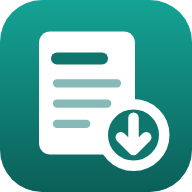
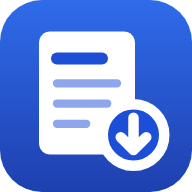
RunDown v1.0.1: document tabs, blue color, wider page, scrolling tables
- Open documents get closable tabs after Documents (+ for a new one, middle click closes), restored on reload; each tab keeps its undo history.
- Blue replaces teal: default accent, icon (SVGs and PNGs re-rendered), theme color, app switcher.
- Wider page widths (normal 980px, wide 1280px, narrow 720px); a table wider than the page scrolls sideways inside it.
- Harness: tab and wide-table checks.

diff --git a/index.html b/index.html
@@ -11,7 +11,7 @@
 <link rel="icon" href="icons/icon.svg" type="image/svg+xml">
 <link rel="icon" href="icons/icon-192.png" type="image/png" sizes="192x192">
 <link rel="apple-touch-icon" href="icons/apple-touch-icon.png">
-<meta name="theme-color" content="#0F766E" media="(prefers-color-scheme: light)">
+<meta name="theme-color" content="#1D4ED8" media="(prefers-color-scheme: light)">
 <meta name="theme-color" content="#161C25" media="(prefers-color-scheme: dark)">
 <meta name="apple-mobile-web-app-title" content="RunDown">
 <meta name="description" content="A Markdown word processor that renders as you write. Offline, private, with math, tables, tasks and export to HTML or PDF.">
@@ -20,7 +20,7 @@
     color-scheme:light;
     --bg:#EEF1F5; --surface:#FFFFFF; --surface-2:#F6F8FB;
     --ink:#131A24; --muted:#616B7A; --line:#E2E7EE; --line-2:#CBD3DE;
-    --accent:#0F766E; --accent-hover:#0B5F59; --accent-soft:#E1F3F1;
+    --accent:#1D4ED8; --accent-hover:#1E40AF; --accent-soft:#E6EEFD;
     --good:#0F9D74; --good-soft:#E4F5EF;
     --bad:#DC4B54; --bad-soft:#FBEAEB;
     --warn:#A76A00; --warn-soft:#FBF1DC;
@@ -31,8 +31,8 @@
     --shadow:0 1px 2px rgba(19,26,36,.06), 0 8px 24px rgba(19,26,36,.06);
     --shadow-knob:0 1px 3px rgba(0,0,0,.3);
     --overlay:rgba(10,14,20,.55);
-    --fs:1; --lh:1; --pw:820px;              /* text size, line spacing and page width (Settings) */
-    --app-qq:#4338CA; --app-ib:#1E7A4C; --app-cc:#C2410C; --app-rd:#0F766E;  /* each study app's own color, for the app switcher */
+    --fs:1; --lh:1; --pw:980px;              /* text size, line spacing and page width (Settings) */
+    --app-qq:#4338CA; --app-ib:#1E7A4C; --app-cc:#C2410C; --app-rd:#1D4ED8;  /* each study app's own color, for the app switcher */
     --font-body:system-ui,-apple-system,"Segoe UI",Roboto,Helvetica,Arial,sans-serif;
     --font-mono:ui-monospace,"Cascadia Mono",Consolas,"SF Mono",Menlo,monospace;
     --font-doc:var(--font-body);
@@ -42,14 +42,14 @@
       color-scheme:dark;
         --bg:#0E1218; --surface:#161C25; --surface-2:#1C2531;
         --ink:#E8ECF2; --muted:#96A0AD; --line:#263140; --line-2:#344257;
-        --accent:#2DD4BF; --accent-hover:#5EEAD4; --accent-soft:#0F2A28;
+        --accent:#6EA8FE; --accent-hover:#8DBBFF; --accent-soft:#16243A;
         --good:#34C79A; --good-soft:#12271F;
         --bad:#F0757C; --bad-soft:#2A1618;
         --warn:#E7B04A; --warn-soft:#2B2210;
-        --on-accent:#062221;
+        --on-accent:#0B1220;
         --knob:#F4F6FA;
         --code-bg:#1C2531; --mark:#5B4A12; --qbar:#344257; --find:#5A3B12; --find-cur:#B7791F;
-        --app-qq:#8B87FF; --app-ib:#6FD3A0; --app-cc:#FB923C; --app-rd:#2DD4BF;
+        --app-qq:#8B87FF; --app-ib:#6FD3A0; --app-cc:#FB923C; --app-rd:#6EA8FE;
         --shadow:0 1px 2px rgba(0,0,0,.4), 0 8px 24px rgba(0,0,0,.35);
     }
   }
@@ -57,14 +57,14 @@
     color-scheme:dark;
       --bg:#0E1218; --surface:#161C25; --surface-2:#1C2531;
       --ink:#E8ECF2; --muted:#96A0AD; --line:#263140; --line-2:#344257;
-      --accent:#2DD4BF; --accent-hover:#5EEAD4; --accent-soft:#0F2A28;
+      --accent:#6EA8FE; --accent-hover:#8DBBFF; --accent-soft:#16243A;
       --good:#34C79A; --good-soft:#12271F;
       --bad:#F0757C; --bad-soft:#2A1618;
       --warn:#E7B04A; --warn-soft:#2B2210;
-      --on-accent:#062221;
+      --on-accent:#0B1220;
       --knob:#F4F6FA;
       --code-bg:#1C2531; --mark:#5B4A12; --qbar:#344257; --find:#5A3B12; --find-cur:#B7791F;
-      --app-qq:#8B87FF; --app-ib:#6FD3A0; --app-cc:#FB923C; --app-rd:#2DD4BF;
+      --app-qq:#8B87FF; --app-ib:#6FD3A0; --app-cc:#FB923C; --app-rd:#6EA8FE;
       --shadow:0 1px 2px rgba(0,0,0,.4), 0 8px 24px rgba(0,0,0,.35);
   }
   /* fonts (Settings > Text). Atkinson Hyperlegible: Copyright 2020 Braille Institute of America, Inc.,
@@ -74,7 +74,7 @@
   :root[data-font="serif"]{--font-doc:"Iowan Old Style","Palatino Linotype",Palatino,"Book Antiqua",Georgia,serif}
   :root[data-font="atkinson"]{--font-body:"Atkinson Hyperlegible",system-ui,-apple-system,"Segoe UI",Roboto,Helvetica,Arial,sans-serif; --font-doc:var(--font-body)}
   :root[data-font="mono"]{--font-doc:var(--font-mono)}
-  :root[data-width="narrow"]{--pw:680px} :root[data-width="wide"]{--pw:1040px} :root[data-width="full"]{--pw:100%}
+  :root[data-width="narrow"]{--pw:720px} :root[data-width="wide"]{--pw:1280px} :root[data-width="full"]{--pw:100%}
   @media (prefers-reduced-motion: reduce){ *, *::before, *::after{transition:none !important; animation:none !important; scroll-behavior:auto !important} }
   :root[data-motion="reduce"] *, :root[data-motion="reduce"] *::before, :root[data-motion="reduce"] *::after{transition:none !important; animation:none !important; scroll-behavior:auto !important}
   *{box-sizing:border-box}
@@ -127,6 +127,18 @@
   .tab[aria-current="page"]{color:var(--accent); border-bottom-color:var(--accent)}
   .tab.icon{display:inline-grid; place-items:center; padding:12px 10px 10px}
   .tab.icon svg{width:20px; height:20px}
+  /* Open documents: a closable tab each, after Documents */
+  .dtabs{display:flex; align-items:center; gap:4px; margin-left:6px}
+  .dtabs:empty{display:none}
+  .dtab{display:inline-flex; align-items:center; max-width:200px; border:1px solid var(--line); border-radius:8px; background:var(--surface-2); flex-shrink:0}
+  .dtab.cur{background:var(--accent-soft); border-color:color-mix(in srgb, var(--accent) 40%, transparent)}
+  .dtab-name{background:none; border:none; color:var(--muted); font-size:calc(13.5px * var(--fs)); font-weight:600; padding:6px 2px 6px 10px; min-width:0; overflow:hidden; text-overflow:ellipsis; white-space:nowrap}
+  .dtab-name:hover, .dtab.cur .dtab-name{color:var(--ink)}
+  .dtab.cur .dtab-name{color:var(--accent)}
+  .dtab-x{background:none; border:none; color:var(--muted); font-size:calc(16px * var(--fs)); line-height:1; padding:4px 7px 5px; margin-right:2px; border-radius:6px}
+  .dtab-x:hover{color:var(--ink); background:color-mix(in srgb, var(--ink) 10%, transparent)}
+  .dtab-new{background:none; border:1px dashed var(--line); color:var(--muted); font-size:calc(16px * var(--fs)); line-height:1; width:30px; height:30px; border-radius:8px; margin-left:4px; flex-shrink:0}
+  .dtab-new:hover{color:var(--accent); border-color:var(--accent)}
   @media (max-width:560px){ .appbar-in{gap:0} .brand{padding:12px 0 0} .appsw, .beta{margin-top:12px} .tabs{flex-basis:100%} .tab{padding:10px 10px 11px} }
 
   /* ---------- App switcher: the down arrow before the logotype opens a menu of the study apps, with Home last ---------- */
@@ -240,7 +252,8 @@
   .ed .mprev{display:block; text-align:center; overflow-x:auto; padding:.4em; margin:.2em 0 .4em; border:1px dashed var(--line-2); border-radius:8px; user-select:none}
   .ed .mprev math{font-size:1.1em}
   .ed .merr{color:var(--bad); font-family:var(--font-mono); font-size:.85em}
-  .ed .blk.tbl.on{display:table; border-collapse:collapse; margin:.45em 0; max-width:100%}
+  /* a block that scrolls sideways, around the anonymous table its rows make, so a wide table stays on the page */
+  .ed .blk.tbl.on{display:block; overflow-x:auto; border-collapse:collapse; margin:.45em 0; max-width:100%}
   .ed .blk.tbl.on > .ln{display:table-row}
   .ed .blk.tbl.on > .ln.x{display:none}
   .ed .td{display:table-cell; border:1px solid var(--line-2); padding:5px 12px; vertical-align:top; min-width:3em; white-space:pre-wrap}
@@ -338,7 +351,7 @@
 </style>
 <script>
 /* Appearance, applied before the first paint. Copied from QuizQrusher's QQ-SHARED:appearance block (via CwikCard), with RunDown's
-   own settings key, teal as the default accent, a monospace font and the page width. */
+   own settings key, blue as the default accent, a monospace font and the page width. */
 (function(){
   "use strict";
   // Accent presets: [accent, hover, soft, text-on-accent] for light and dark themes (the same as QuizQrusher's)
@@ -359,7 +372,7 @@
     var theme = s.theme === "light" || s.theme === "dark" ? s.theme : "system";
     if (theme === "system") root.removeAttribute("data-theme"); else root.setAttribute("data-theme", theme);
     var dark = theme === "dark" || (theme === "system" && !!(mq && mq.matches));
-    var a = (ACCENTS[s.accent] || ACCENTS.teal)[dark ? "dark" : "light"];
+    var a = (ACCENTS[s.accent] || ACCENTS.blue)[dark ? "dark" : "light"];
     st.setProperty("--accent", a[0]); st.setProperty("--accent-hover", a[1]); st.setProperty("--accent-soft", a[2]); st.setProperty("--on-accent", a[3]);
     st.setProperty("--fs", String(+s.textScale || 1));
     st.setProperty("--lh", String(+s.lineSpacing || 1));
@@ -386,8 +399,8 @@
           <a class="appsw-item qq" role="menuitem" href="../Quiz_Qrusher/"><svg viewBox="0 0 512 512" aria-hidden="true"><defs><linearGradient id="swqq" x1="0" y1="0" x2="0" y2="1"><stop offset="0" stop-color="#5145E6"/><stop offset="1" stop-color="#3A31B8"/></linearGradient></defs><rect width="512" height="512" rx="112" fill="url(#swqq)"/><g fill="none" stroke="#FFFFFF" stroke-linecap="round" stroke-linejoin="round"><circle cx="246" cy="240" r="153" stroke-width="50"/><path d="M368 336L430 378" stroke-width="54"/><path d="M190 244L232 288L304 200" stroke-width="34"/></g></svg><span>Quiz<b>Qrusher</b></span></a>
           <a class="appsw-item ib" role="menuitem" href="../Class_Base/"><svg viewBox="0 0 512 512" aria-hidden="true"><defs><linearGradient id="swib" x1="0" y1="0" x2="0" y2="1"><stop offset="0" stop-color="#24935C"/><stop offset="1" stop-color="#16603B"/></linearGradient></defs><rect width="512" height="512" rx="112" fill="url(#swib)"/><rect x="132" y="92" width="268" height="190" rx="24" fill="#FFFFFF" fill-opacity=".42"/><rect x="92" y="130" width="282" height="206" rx="26" fill="#FFFFFF"/><path d="M136 186H290M136 230H252M136 274H214" fill="none" stroke="#1B7047" stroke-width="22" stroke-linecap="round"/><circle cx="338" cy="326" r="70" fill="#1B7047" stroke="#FFFFFF" stroke-width="30"/><path d="M392 380L432 420" fill="none" stroke="#FFFFFF" stroke-width="42" stroke-linecap="round"/></svg><span>Info<b>Base</b></span></a>
           <a class="appsw-item cc" role="menuitem" href="../CwikCard/"><svg viewBox="0 0 512 512" aria-hidden="true"><defs><linearGradient id="swcc" x1="0" y1="0" x2="0" y2="1"><stop offset="0" stop-color="#F26B1D"/><stop offset="1" stop-color="#B83A0A"/></linearGradient></defs><rect width="512" height="512" rx="112" fill="url(#swcc)"/><rect x="168" y="92" width="232" height="300" rx="30" fill="#FFFFFF" fill-opacity=".42" transform="rotate(12 284 242)"/><g transform="rotate(-6 236 268)"><rect x="120" y="118" width="232" height="300" rx="30" fill="#FFFFFF"/><path d="M262 166L192 290H240L218 372L290 244H242Z" fill="#C2410C"/></g></svg><span>Cwik<b>Card</b></span></a>
-          <a class="appsw-item rd" role="menuitem" href="../RunDown/" aria-current="page"><svg viewBox="0 0 512 512" aria-hidden="true"><defs><linearGradient id="swrd" x1="0" y1="0" x2="0" y2="1"><stop offset="0" stop-color="#14A394"/><stop offset="1" stop-color="#0B5F59"/></linearGradient></defs><rect width="512" height="512" rx="112" fill="url(#swrd)"/><rect x="104" y="84" width="256" height="328" rx="30" fill="#FFFFFF"/><path d="M152 156H272" stroke="#0F766E" stroke-width="32" stroke-linecap="round"/><path d="M152 222H312M152 276H286M152 330H230" stroke="#0F766E" stroke-opacity=".5" stroke-width="22" stroke-linecap="round"/><circle cx="356" cy="360" r="82" fill="#0F766E" stroke="#FFFFFF" stroke-width="28"/><path d="M356 314V398M322 366L356 400L390 366" fill="none" stroke="#FFFFFF" stroke-width="28" stroke-linecap="round" stroke-linejoin="round"/></svg><span>Run<b>Down</b></span></a>
-          <a class="appsw-home" role="menuitem" href="../"><svg viewBox="0 0 64 64" aria-hidden="true"><rect width="64" height="64" rx="14" fill="#131A24"/><rect x="14" y="14" width="16" height="16" rx="4" fill="#5145E6"/><rect x="34" y="14" width="16" height="16" rx="4" fill="#24935C"/><rect x="14" y="34" width="16" height="16" rx="4" fill="#E8611A"/><rect x="34" y="34" width="16" height="16" rx="4" fill="#14A394"/></svg><span>Home<small>All study apps</small></span></a>
+          <a class="appsw-item rd" role="menuitem" href="../RunDown/" aria-current="page"><svg viewBox="0 0 512 512" aria-hidden="true"><defs><linearGradient id="swrd" x1="0" y1="0" x2="0" y2="1"><stop offset="0" stop-color="#2F6BEA"/><stop offset="1" stop-color="#1E40AF"/></linearGradient></defs><rect width="512" height="512" rx="112" fill="url(#swrd)"/><rect x="104" y="84" width="256" height="328" rx="30" fill="#FFFFFF"/><path d="M152 156H272" stroke="#1D4ED8" stroke-width="32" stroke-linecap="round"/><path d="M152 222H312M152 276H286M152 330H230" stroke="#1D4ED8" stroke-opacity=".5" stroke-width="22" stroke-linecap="round"/><circle cx="356" cy="360" r="82" fill="#1D4ED8" stroke="#FFFFFF" stroke-width="28"/><path d="M356 314V398M322 366L356 400L390 366" fill="none" stroke="#FFFFFF" stroke-width="28" stroke-linecap="round" stroke-linejoin="round"/></svg><span>Run<b>Down</b></span></a>
+          <a class="appsw-home" role="menuitem" href="../"><svg viewBox="0 0 64 64" aria-hidden="true"><rect width="64" height="64" rx="14" fill="#131A24"/><rect x="14" y="14" width="16" height="16" rx="4" fill="#5145E6"/><rect x="34" y="14" width="16" height="16" rx="4" fill="#24935C"/><rect x="14" y="34" width="16" height="16" rx="4" fill="#E8611A"/><rect x="34" y="34" width="16" height="16" rx="4" fill="#2F6BEA"/></svg><span>Home<small>All study apps</small></span></a>
         </div>
       </div>
       <button class="brand" type="button" data-tab="write">Run<span>Down</span></button>
@@ -396,6 +409,8 @@
     <nav class="tabs" aria-label="Main">
       <button class="tab" type="button" data-tab="write" aria-current="page">Write</button>
       <button class="tab" type="button" data-tab="docs">Documents</button>
+      <span class="dtabs" id="docTabs" role="group" aria-label="Open documents"></span>
+      <button class="dtab-new" id="tabNewBtn" type="button" aria-label="New document" title="New document">+</button>
       <span class="push" aria-hidden="true"></span>
       <button class="tab" type="button" data-tab="help">Help</button>
       <button class="tab icon" type="button" data-tab="settings" aria-label="Settings" title="Settings">
@@ -549,6 +564,7 @@
       <ul>
         <li>RunDown saves as you type. The note next to the name says when it last saved.</li>
         <li>The name at the top is optional: without one, the first line of the document names it.</li>
+        <li><b>Tabs.</b> Each document you open gets a tab next to Documents, so you can switch between several. <b>+</b> starts a new one, and &times; (or a middle click) closes a tab without deleting anything: the document stays on the Documents page. Open tabs come back when you return, and each keeps its undo history while you switch.</li>
         <li><b>Documents</b> lists everything you've written, newest first, with search once you have a few. Each one can be downloaded, duplicated or deleted there.</li>
         <li>Import <code>.md</code> or <code>.txt</code> files on the Documents page, or drop one onto the page while you write.</li>
         <li>Settings &rsaquo; Data &rsaquo; <b>Export all</b> saves every document (and its pictures) in one backup file. Import it on another device or browser to bring everything across.</li>
@@ -573,6 +589,8 @@
 
       <h2 id="help-whatsnew">What's new</h2>
       <dl class="versions">
+        <dt>v1.0.1 &middot; October 2026</dt>
+        <dd>Tabs: open several documents at once and switch between them next to Documents. RunDown is blue now: a blue icon, blue in the study apps menu, and blue as the default accent color (pick another, teal included, in Settings &gt; Appearance). The page is wider, and a table wider than the page scrolls sideways instead of running off it.</dd>
         <dt>v1.0 &middot; October 2026</dt>
         <dd>The first version: a Markdown word processor with live preview (plain while you edit inside a piece of Markdown, rendered the moment it closes), Source and Read views, headings, emphasis, highlight, links, pictures, lists, checklists, quotes, code blocks, tables and LaTeX math, a formatting toolbar and shortcuts, find and replace, an outline, documents saved in the browser, import, export to Markdown, HTML, PDF and formatted text, Settings, and an installable app that works offline.</dd>
       </dl>
@@ -643,7 +661,7 @@
 (function(){
   "use strict";
 
-  var APP_VERSION = "1.0.0";
+  var APP_VERSION = "1.0.1";
   var NS = "runDown:";   // every GitHub Pages project of this user shares one origin, so namespace every key
   var el = function(id){ return document.getElementById(id); };
   var IS_MAC = /Mac|iPhone|iPad|iPod/.test(navigator.platform || navigator.userAgent || "");
@@ -651,7 +669,7 @@
 
   /* ---------- Settings: localStorage runDown:settings, missing keys fall back to the defaults ---------- */
   var SETTINGS_DEFAULTS = {
-    theme: "system", accent: "teal", reduceMotion: false,                                   // Appearance
+    theme: "system", accent: "blue", reduceMotion: false,                                   // Appearance
     textScale: 1, lineSpacing: 1, font: "system", pageWidth: "normal", showCounts: true,     // Text
     editStyle: "plain", spellcheck: true, smartLists: true, autoClose: true, math: true, pasteHtml: true   // Editing
   };
@@ -2279,6 +2297,7 @@
     d.caret = sel.f;
     if (!d.name) document.title = docTitle(d) + " - RunDown";
     el("docName").placeholder = autoTitle(d.text) || "Untitled";
+    renderTabs();
     return putRecord("docs", d).then(function(){ if (!saveTimer && el("saveState").textContent !== "Not saved") setSaveState("saved"); });
   }
   function docTitle(d){ return (d.name && d.name.trim()) || autoTitle(d.text) || "Untitled"; }
@@ -2293,12 +2312,15 @@
     return d;
   }
   function openDoc(id, focus){
-    if (curId && DOCS[curId] && curId !== id) flushSave();
+    if (curId && DOCS[curId] && curId !== id){ flushSave(); UNDO[curId] = { u: undoStack, r: redoStack, text: src }; }
     var d = DOCS[id]; if (!d) return;
     curId = id;
     try { localStorage.setItem(NS + "last", id); } catch (e){}
     setSrc(d.text || "");
-    undoStack = []; redoStack = [];
+    var keep = UNDO[id] && UNDO[id].text === src ? UNDO[id] : null;   // a tab keeps its undo history while its text is unchanged
+    undoStack = keep ? keep.u : []; redoStack = keep ? keep.r : [];
+    delete UNDO[id];
+    addTab(id);
     var c = Math.max(0, Math.min(d.caret || 0, src.length)); sel = { a: c, f: c };
     el("docName").value = d.name || ""; el("docName").placeholder = autoTitle(d.text) || "Untitled";
     document.title = docTitle(d) + " - RunDown";
@@ -2310,6 +2332,49 @@
     window.scrollTo(0, 0);
     if (focus && viewMode !== "read"){ ed.focus({ preventScroll: true }); edFocused = true; render(); ensureCaretVisible(); }
   }
+  /* ---------- Open documents as tabs: after Documents in the app bar, kept in localStorage runDown:tabs ---------- */
+  var TABS = [], UNDO = {};   // UNDO: doc id -> { u, r, text }, the undo history of a tab that isn't showing
+  function saveTabs(){ try { localStorage.setItem(NS + "tabs", JSON.stringify(TABS)); } catch (e){} }
+  function loadTabs(){
+    var t = []; try { t = JSON.parse(localStorage.getItem(NS + "tabs")) || []; } catch (e){}
+    TABS = (Array.isArray(t) ? t : []).filter(function(id, i, a){ return DOCS[id] && a.indexOf(id) === i; });
+  }
+  function addTab(id){
+    if (TABS.indexOf(id) < 0){ var at = TABS.indexOf(curId); if (at < 0 || id === curId) TABS.push(id); else TABS.splice(at + 1, 0, id); saveTabs(); }
+    renderTabs();
+  }
+  function closeTab(id){
+    var at = TABS.indexOf(id); if (at < 0) return;
+    if (id === curId) flushSave();
+    TABS.splice(at, 1); delete UNDO[id]; saveTabs();
+    if (id === curId){
+      var next = TABS[Math.min(at, TABS.length - 1)];
+      if (next) openDoc(next, true);
+      else { renderTabs(); show("docsScreen"); }   // the last tab: Write reopens it
+    } else renderTabs();
+  }
+  function renderTabs(){
+    var box = el("docTabs"), onWrite = !el("writeScreen").classList.contains("hidden");
+    box.innerHTML = "";
+    TABS.forEach(function(id){
+      var d = DOCS[id]; if (!d) return;
+      var t = document.createElement("span"), cur = id === curId && onWrite;
+      t.className = "dtab" + (cur ? " cur" : "");
+      var b = document.createElement("button"); b.type = "button"; b.className = "dtab-name"; b.textContent = docTitle(d); b.title = docTitle(d);
+      if (cur) b.setAttribute("aria-current", "page");
+      b.addEventListener("click", function(){ if (id === curId) focusWrite(); else openDoc(id, true); });
+      var x = document.createElement("button"); x.type = "button"; x.className = "dtab-x"; x.innerHTML = "&times;";
+      x.setAttribute("aria-label", "Close " + docTitle(d)); x.title = "Close";
+      x.addEventListener("click", function(e){ e.stopPropagation(); closeTab(id); });
+      t.addEventListener("auxclick", function(e){ if (e.button === 1){ e.preventDefault(); closeTab(id); } });   // middle click closes
+      t.appendChild(b); t.appendChild(x); box.appendChild(t);
+      if (cur){   // keep the current tab in view inside the app bar, without scrolling the page
+        var nav = box.parentNode, r = t.getBoundingClientRect(), n = nav.getBoundingClientRect();
+        if (r.left < n.left) nav.scrollLeft -= n.left - r.left + 8; else if (r.right > n.right) nav.scrollLeft += r.right - n.right + 8;
+      }
+    });
+  }
+  function focusWrite(){ show("writeScreen"); focusEditor(); }
   function sortedDocs(){ return Object.keys(DOCS).map(function(k){ return DOCS[k]; }).sort(function(a, b){ return b.updatedAt - a.updatedAt; }); }
   function smallBtn(label, kind, fn){ var b = document.createElement("button"); b.type = "button"; b.className = "btn sm" + (kind ? " " + kind : ""); b.textContent = label; b.addEventListener("click", fn); return b; }
   function renderDocs(){
@@ -2338,10 +2403,11 @@
   }
   function deleteDoc(d){
     if (!window.confirm("Delete \u201C" + docTitle(d) + "\u201D?\n\nThis can't be undone. Download it first if you want a copy.")) return;
-    delete DOCS[d.id]; delRecord("docs", d.id);
+    delete DOCS[d.id]; delRecord("docs", d.id); delete UNDO[d.id];
     pruneAssets();
-    if (curId === d.id){ curId = null; var rest = sortedDocs(); if (rest.length) openDoc(rest[0].id, false); else openDoc(newDoc("").id, false); show("docsScreen"); }
-    renderDocs();
+    var at = TABS.indexOf(d.id); if (at >= 0){ TABS.splice(at, 1); saveTabs(); }
+    if (curId === d.id){ curId = null; var next = TABS[Math.min(at, TABS.length - 1)] || (sortedDocs()[0] || {}).id; openDoc(next || newDoc("").id, false); show("docsScreen"); }
+    renderTabs(); renderDocs();
   }
   function pruneAssets(){
     var all = Object.keys(DOCS).map(function(k){ return DOCS[k].text || ""; }).join("\n");
@@ -2386,7 +2452,7 @@
       putRecord("docs", DOCS[d.id]); n++;
       if (d.id === curId) openDoc(d.id, false);
     });
-    renderEpoch++;
+    renderEpoch++; renderTabs();
     showToast(n ? "Restored " + plural(n, "document") + " from the backup." : "Everything in that backup is already here (or newer).", "OK", null, "info");
   }
   function withAssets(text){ return text.replace(/\]\(asset:([\w-]+)\)/g, function(m, id){ return ASSETS[id] ? "](" + ASSETS[id].data + ")" : m; }); }
@@ -2397,11 +2463,11 @@
   }
   var EXPORT_CSS = "body{margin:0;background:#fff;color:#1b2430;font:17px/1.65 system-ui,-apple-system,'Segoe UI',Roboto,Helvetica,Arial,sans-serif}" +
     "main{max-width:760px;margin:0 auto;padding:48px 24px 80px}h1,h2,h3,h4,h5,h6{line-height:1.3;margin:1.4em 0 .4em}h1{font-size:2em}h2{font-size:1.55em}h3{font-size:1.28em}" +
-    "a{color:#0F766E}code{font:.87em ui-monospace,Consolas,Menlo,monospace;background:#f3f5f8;border:1px solid #e2e7ee;border-radius:5px;padding:.05em .3em}" +
+    "a{color:#1D4ED8}code{font:.87em ui-monospace,Consolas,Menlo,monospace;background:#f3f5f8;border:1px solid #e2e7ee;border-radius:5px;padding:.05em .3em}" +
     "pre{background:#f3f5f8;border:1px solid #e2e7ee;border-radius:10px;padding:12px 16px;overflow:auto}pre code{background:none;border:none;padding:0}" +
     "blockquote{margin:1em 0;padding:0 0 0 1em;border-left:3px solid #cbd3de;color:#5b6573}table{border-collapse:collapse;margin:1em 0}th,td{border:1px solid #cbd3de;padding:6px 12px;text-align:left}th{background:#f6f8fb}" +
     "img{max-width:100%;border-radius:8px}mark{background:#fceb9c}hr{border:none;border-top:2px solid #e2e7ee;margin:1.6em 0}.math{text-align:center;overflow-x:auto}ul.tasks{list-style:none;padding-left:1.2em}" +
-    "@media (prefers-color-scheme:dark){body{background:#0e1218;color:#e8ecf2}a{color:#2DD4BF}code,pre{background:#1c2531;border-color:#263140}th{background:#1c2531}th,td{border-color:#344257}blockquote{border-color:#344257;color:#96a0ad}mark{background:#5b4a12;color:inherit}hr{border-color:#263140}}";
+    "@media (prefers-color-scheme:dark){body{background:#0e1218;color:#e8ecf2}a{color:#6EA8FE}code,pre{background:#1c2531;border-color:#263140}th{background:#1c2531}th,td{border-color:#344257}blockquote{border-color:#344257;color:#96a0ad}mark{background:#5b4a12;color:inherit}hr{border-color:#263140}}";
   function withMath(fn){
     if (settings.math && /\$/.test(src) && katexState < 2){
       needKatex();
@@ -2463,6 +2529,7 @@
     if (id !== "writeScreen") window.scrollTo(0, 0);
     if (id === "settingsScreen") renderSettings();
     if (id === "docsScreen") renderDocs();
+    if (id === "writeScreen" && curId && DOCS[curId]) addTab(curId); else renderTabs();
   }
   // Browser Back returns to the page instead of leaving the app (as in QuizQrusher)
   var ignorePop = false;
@@ -2866,6 +2933,7 @@
     var d = DOCS[curId]; if (!d) return;
     d.name = el("docName").value; d.updatedAt = Date.now();
     document.title = docTitle(d) + " - RunDown";
+    renderTabs();
     setSaveState("saving"); clearTimeout(saveTimer); saveTimer = setTimeout(flushSave, 600);
   });
   el("docName").addEventListener("keydown", function(e){ if (e.key === "Enter" || e.key === "Escape"){ e.preventDefault(); focusEditor(); } });
@@ -2901,6 +2969,7 @@
   ["tblCols", "tblRows"].forEach(function(id){ el(id).addEventListener("keydown", function(e){ if (e.key === "Enter"){ e.preventDefault(); finishTable(); } }); });
   ["linkDialog", "imageDialog", "tableDialog"].forEach(function(id){ el(id).addEventListener("cancel", function(){ setTimeout(focusEditor, 0); }); });
   el("newDocBtn").addEventListener("click", function(){ openDoc(newDoc("").id, true); });
+  el("tabNewBtn").addEventListener("click", function(){ openDoc(newDoc("").id, true); });
   el("sampleBtn").addEventListener("click", function(){ openDoc(newDoc(WELCOME).id, true); });
   el("docSearch").addEventListener("input", renderDocs);
   var drop = el("importDrop"), inp = el("importInput");
@@ -2987,6 +3056,7 @@
     var last = null; try { last = localStorage.getItem(NS + "last"); } catch (e){}
     if (!Object.keys(DOCS).length) last = newDoc(WELCOME).id;
     if (!last || !DOCS[last]) last = sortedDocs()[0].id;
+    loadTabs();
     openDoc(last, false);
   }).catch(function(e){
     var b = el("storageBanner"); b.classList.remove("hidden"); b.classList.add("bad");

diff --git a/sw.js b/sw.js
@@ -9,7 +9,7 @@
  * - Cache names start with "runDown-": every GitHub Pages project of this user shares the origin.
  */
 "use strict";
-const VERSION = "7c4991b65250"; // generated: tools/sw_version.py --sync
+const VERSION = "9dbfdcc170c9"; // generated: tools/sw_version.py --sync
 const CACHE = "runDown-" + VERSION;
 const PRECACHE = [
   "./",

diff --git a/tools/harness.py b/tools/harness.py
@@ -431,6 +431,27 @@ def run(p, shots):
     check("Markdown to HTML", '<h1 id="t">T</h1>' in html and "<strong>b</strong>" in html and '<a href="https://e.com">l</a>' in html and "<ul><li>x<ul><li>y</li></ul></li><li><input" in html and "text-align:center" in html, html)
     check("javascript: links are dropped", 'href' not in p.ev("__rd.mdToHtml('[x](javascript:alert(1))', true)"))
 
+    print("Tabs")
+    TABS = lambda: p.ev("[...document.querySelectorAll('#docTabs .dtab')].map(t => (t.classList.contains('cur') ? '*' : '') + t.querySelector('.dtab-name').textContent)")
+    before = TABS()
+    p.ev("document.getElementById('tabNewBtn').click()"); time.sleep(0.1)
+    p.type("# Tab two"); time.sleep(0.8)
+    check("+ opens a new tab after the current one", TABS()[-1] == "*Tab two" and len(TABS()) == len(before) + 1, TABS())
+    p.ev("[...document.querySelectorAll('#docTabs .dtab-name')][0].click()"); time.sleep(0.2)
+    check("clicking a tab switches documents", TABS()[0].startswith("*") and S() != "# Tab two", TABS())
+    p.ev("[...document.querySelectorAll('#docTabs .dtab-name')].find(b => b.textContent === 'Tab two').click()"); time.sleep(0.2)
+    check("a tab keeps its undo history", S() == "# Tab two" and p.ev("!document.querySelector('#tbar button').disabled"))
+    p.ev("[...document.querySelectorAll('#docTabs .dtab')].find(t => t.classList.contains('cur')).querySelector('.dtab-x').click()"); time.sleep(0.2)
+    check("closing a tab opens its neighbor", len(TABS()) == len(before) and any(t.startswith("*") for t in TABS()), TABS())
+    p.ev("document.querySelector('[data-tab=docs]').click()")
+    check("closing a tab keeps the document", "Tab two" in p.ev("document.getElementById('docList').textContent"))
+    p.ev("document.querySelector('[data-tab=write]').click()")
+    p.ev("document.getElementById('tabNewBtn').click()"); time.sleep(0.1)
+    p.type("| " + " | ".join("Column%dWithAVeryLongHeaderName" % i for i in range(12)) + " |"); p.enter(); p.type("|" + "---|" * 12); p.enter(); p.enter(); p.type("x")
+    time.sleep(0.2)
+    wide = p.ev("(() => { const t = document.querySelector('#ed .blk.tbl.on'), pg = document.getElementById('page').getBoundingClientRect(); return t ? [t.getBoundingClientRect().right <= pg.right, t.scrollWidth > t.clientWidth] : null; })()")
+    check("a wide table scrolls inside the page", wide == [True, True], wide)
+
     print("Persistence")
     time.sleep(1.0)
     saved = S()

diff --git a/CLAUDE.md b/CLAUDE.md
@@ -1,6 +1,6 @@
 # RunDown
 
-A Markdown word processor with live preview: the text being edited inside a piece of Markdown is plain, and it renders the moment that piece is closed. Part of the study apps at https://braxtonstryker.github.io/ (with QuizQrusher in `../Quiz_Qrusher/`, InfoBase in `../Class_Base/` and CwikCard in `../CwikCard/`). Hosted on GitHub Pages at `/RunDown/` (repo `BraxtonStryker/RunDown`). **v1.0.0** built 2026-10-18 (Beta tag next to the name, like InfoBase and CwikCard).
+A Markdown word processor with live preview: the text being edited inside a piece of Markdown is plain, and it renders the moment that piece is closed. Part of the study apps at https://braxtonstryker.github.io/ (with QuizQrusher in `../Quiz_Qrusher/`, InfoBase in `../Class_Base/` and CwikCard in `../CwikCard/`). Hosted on GitHub Pages at `/RunDown/` (repo `BraxtonStryker/RunDown`). **v1.0.1** (2026-10-20: document tabs, blue instead of teal for the accent, icon and app switcher, wider page, sideways-scrolling tables). v1.0.0 built 2026-10-18 (Beta tag next to the name, like InfoBase and CwikCard).
 
 ## Layout
 - `index.html`: the whole app. `sw.js`, `manifest.webmanifest`, `icons/` (`icon.svg` and `icon-maskable.svg` are the sources of the PNGs, rendered with headless Chrome): the installable offline app. `vendor/katex.min.js` is the same KaTeX build InfoBase uses (`Class_Base/studydb/web/vendor/`); it is loaded on demand and renders MathML only, so no KaTeX CSS or fonts are needed.
@@ -9,7 +9,7 @@ A Markdown word processor with live preview: the text being edited inside a piec
 
 ## Conventions (match QuizQrusher and CwikCard)
 - Single-file HTML, inline CSS and JS, vanilla JS in an IIFE, `var` and `function` style, no frameworks, no build step, nothing from CDNs (the Atkinson Hyperlegible font is inlined from CwikCard).
-- Every color is a CSS custom property on `:root`, with dark values for "Match system" and `data-theme="dark"`. Font sizes are `calc(Npx * var(--fs))`. Teal (`#0F766E` / `#2DD4BF`) is RunDown's color.
+- Every color is a CSS custom property on `:root`, with dark values for "Match system" and `data-theme="dark"`. Font sizes are `calc(Npx * var(--fs))`. Blue is RunDown's color (since v1.0.1; it was teal): the default accent (`#1D4ED8` / `#6EA8FE`, the Blue preset), the app switcher entry, and the icon (gradient `#2F6BEA` to `#1E40AF`, details `#1D4ED8`).
 - American spelling. Every localStorage, IndexedDB and cache name starts with `runDown` (`runDown:settings`, `runDown:last`, IndexedDB `runDown:app`, caches `runDown-<version>`): all of the user's GitHub Pages apps share one origin.
 - Copied from QuizQrusher/CwikCard and kept in step by hand: the appearance block in `<head>`, the storage backends, Settings rows, the toast, the app switcher and the service worker. The app switcher is the same menu in all four apps (QuizQrusher, InfoBase, CwikCard, RunDown) with the four-square Home icon; keep them in step. Hidden from `file://`.
 - Log each release in Help > What's new and bump `APP_VERSION`.
